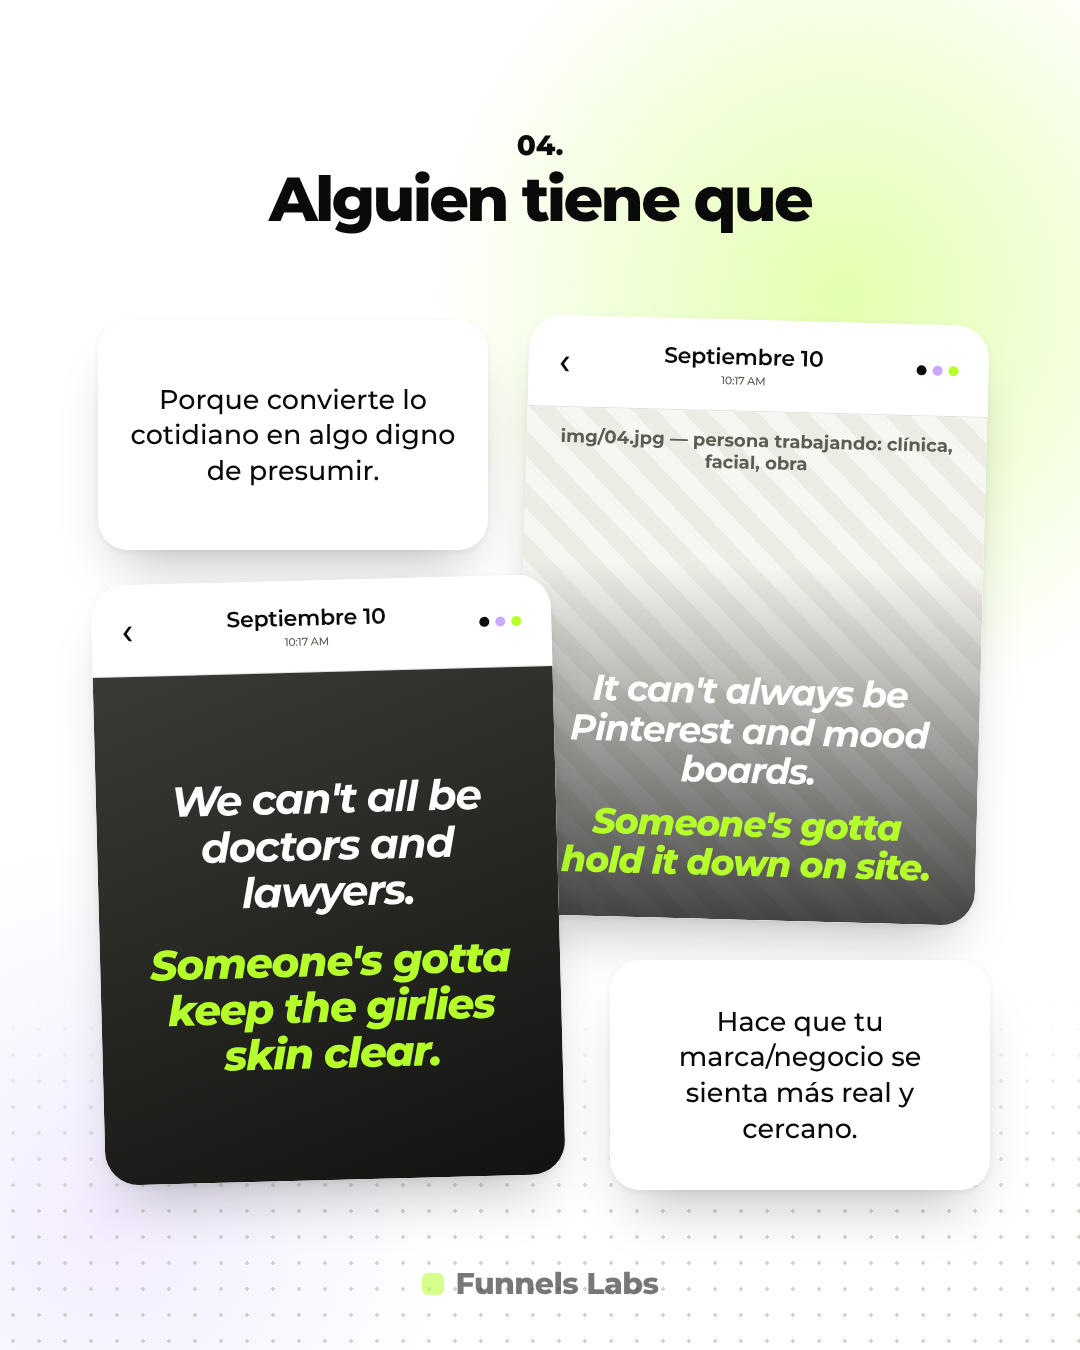
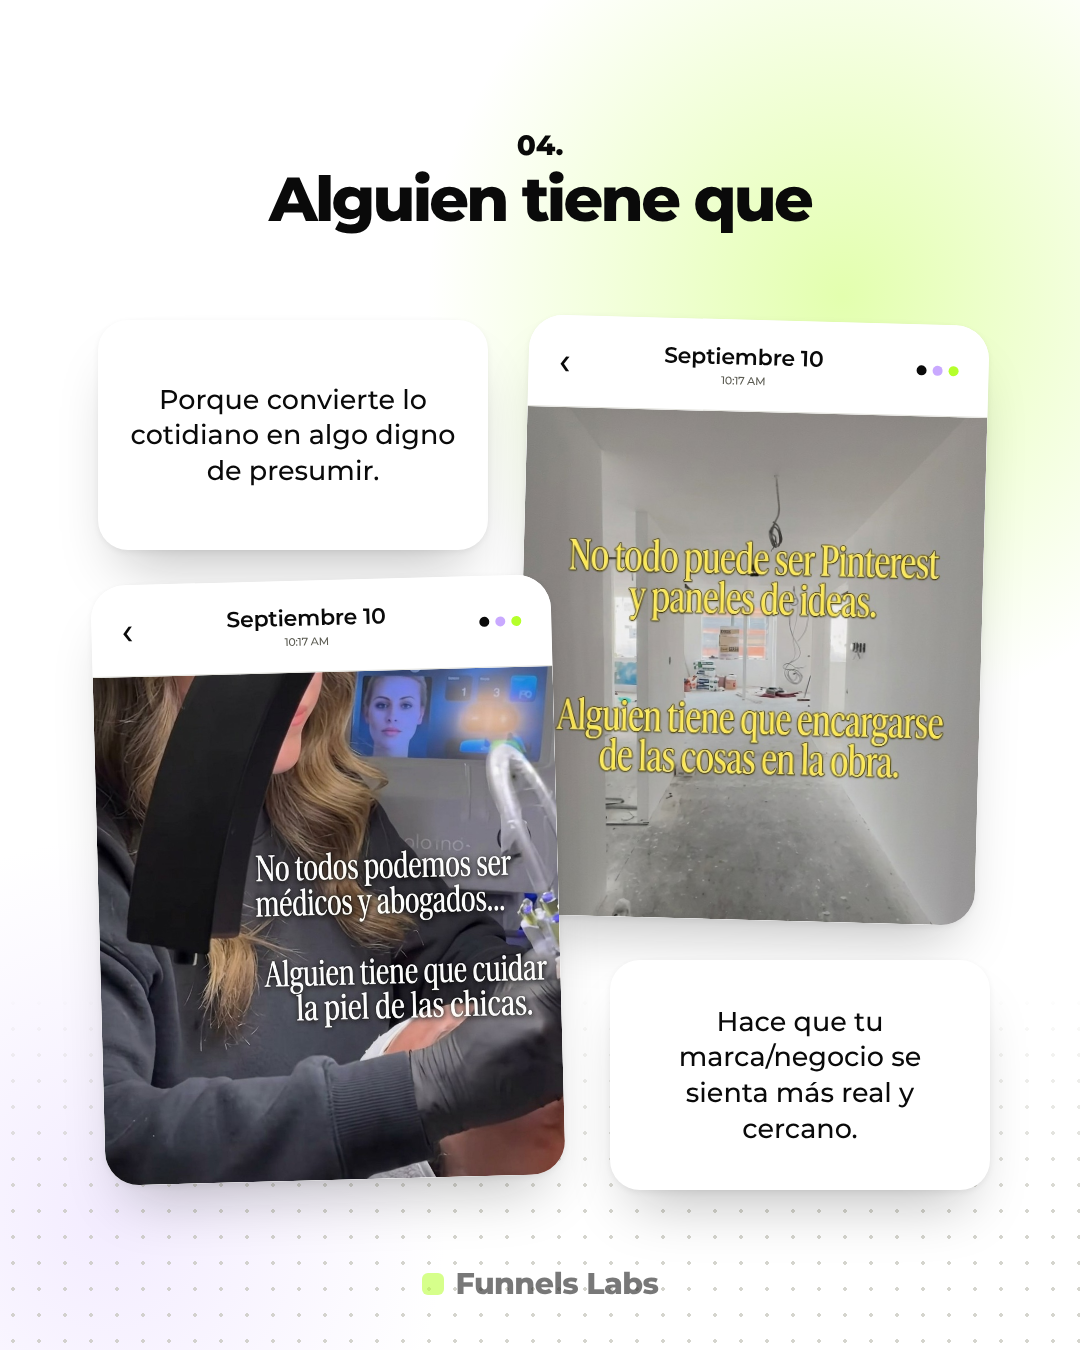
Carrusel trends: fotos reales en slides 01, 03 y 04
Claude-Session: https://claude.ai/code/session_018d4LXHkXweDJXxfN5x99dL

Changed region(s): [[0.0917, 0.28, 0.9167, 0.9022]]

diff --git a/carruseles/trends-instagram/carrusel.html b/carruseles/trends-instagram/carrusel.html
@@ -141,16 +141,11 @@
     <div class="screen s-lime" style="justify-content:center;gap:18px">
       <div class="big" style="font-size:62px;text-transform:uppercase">Sí, te perdono</div>
       <div class="marker" style="font-size:44px">pero todo tiene un precio</div>
-      <!-- <img src="foto.png"> para poner la foto del meme -->
     </div>
   </div>
   <div class="phone p2">
     <header><span class="back">‹</span><span class="date">Septiembre 7<small>10:17 AM</small></span><span class="dots"><b></b><b></b><b></b></span></header>
-    <div class="screen s-lilac photo">
-      <div class="band" style="text-align:center"><div class="big" style="font-size:54px;text-transform:uppercase">Si te perdono</div>
-      <div style="font-size:30px;font-weight:600;font-style:italic">pero tiene <b style="font-weight:800">un precio</b></div></div>
-      <div class="pic" data-foto="img/01.jpg — hámster o mascota señalando"><img src="img/01.jpg" onerror="this.closest('[data-foto]').classList.add('missing');this.remove()"></div>
-    </div>
+    <div class="screen photo" style="background:#3a9e5c"><img src="img/01.jpg" style="position:absolute;inset:0;width:100%;height:100%;object-fit:cover;object-position:top"></div>
   </div>
   <div class="card why"><h4>Funciona para:</h4><ul><li>Mostrar servicios</li><li>Destacar beneficios</li><li>Comunicar precios</li></ul></div>
   <div class="logo"><i></i>Funnels Labs</div>
@@ -163,9 +158,8 @@
   <div class="card note" style="font-size:25px">Este trend juega con fotos reales y sin editar para mostrar el lado más espontáneo y humano de una marca.</div>
   <div class="phone p1">
     <header><span class="back">‹</span><span class="date">Septiembre 8<small>10:17 AM</small></span><span class="dots"><b></b><b></b><b></b></span></header>
-    <div class="screen photo overlay" data-foto="img/02.jpg — escritorio u oficina vacía, foto casual">
-      <img src="img/02.jpg" onerror="this.closest('[data-foto]').classList.add('missing');this.remove()">
-      <div class="cap"><div class="marker" style="font-size:54px;color:var(--lime);transform:rotate(-3deg)">La chica de Marketing no vino a trabajar !!</div></div>
+    <div class="screen s-lime" style="justify-content:center">
+      <div class="marker" style="font-size:66px;transform:rotate(-3deg)">La chica de Marketing no vino a trabajar !!</div>
     </div>
   </div>
   <div class="phone p2">
@@ -184,16 +178,15 @@
   <div class="card note" style="font-size:25px">Un trend cute y juguetón para mostrar productos como ese antojito que “te da penita pedir”.</div>
   <div class="phone p1">
     <header><span class="back">‹</span><span class="date">Septiembre 9<small>10:17 AM</small></span><span class="dots"><b></b><b></b><b></b></span></header>
-    <div class="screen s-lilac photo">
-      <div class="band"><div class="big" style="font-size:56px">Me da penita</div>
-      <div class="marker" style="font-size:44px;text-align:right">pedirte…</div></div>
-      <div class="pic" data-foto="img/03.jpg — perrito con cara de ternura"><img src="img/03.jpg" onerror="this.closest('[data-foto]').classList.add('missing');this.remove()"></div>
+    <div class="screen photo s-lilac" style="padding:0">
+      <img src="img/03.jpg" style="position:absolute;inset:16px;width:calc(100% - 32px);height:calc(100% - 32px);object-fit:cover;object-position:top;border-radius:18px">
     </div>
   </div>
   <div class="phone p2">
     <header><span class="back">‹</span><span class="date">Septiembre 9<small>10:17 AM</small></span><span class="dots"><b></b><b></b><b></b></span></header>
-    <div class="screen s-paper" style="justify-content:center;text-align:center">
-      <div class="big" style="font-size:60px">Me da <span style="background:var(--lime);padding:0 8px;border-radius:8px">vergüenza</span> pedirte…</div>
+    <div class="screen s-paper" style="justify-content:center">
+      <div class="big" style="font-size:66px">Me da <span style="background:var(--lime);padding:0 8px;border-radius:8px">penita</span></div>
+      <div class="marker" style="font-size:52px;text-align:right;margin-top:10px">pedirte…</div>
     </div>
   </div>
   <div class="card why"><h4>Funciona porque:</h4><ul><li>Humaniza la marca</li><li>Conecta con situaciones cotidianas</li></ul></div>
@@ -207,18 +200,11 @@
   <div class="card note">Porque convierte lo cotidiano en algo digno de presumir.</div>
   <div class="phone p1">
     <header><span class="back">‹</span><span class="date">Septiembre 10<small>10:17 AM</small></span><span class="dots"><b></b><b></b><b></b></span></header>
-    <div class="screen photo overlay" data-foto="img/04.jpg — persona trabajando: clínica, facial, obra">
-      <img src="img/04.jpg" onerror="this.closest('[data-foto]').classList.add('missing');this.remove()">
-      <div class="cap"><div style="font-size:36px;font-weight:700;font-style:italic;line-height:1.1;letter-spacing:-0.03em">It can't always be Pinterest and mood boards.</div>
-      <div style="font-size:36px;font-weight:800;font-style:italic;line-height:1.1;letter-spacing:-0.03em;color:var(--lime);margin-top:14px">Someone's gotta hold it down on site.</div></div>
-    </div>
+    <div class="screen photo" style="background:#fff"><img src="img/04b.jpg" style="position:absolute;inset:0;width:100%;height:100%;object-fit:cover;object-position:center"></div>
   </div>
   <div class="phone p2">
     <header><span class="back">‹</span><span class="date">Septiembre 10<small>10:17 AM</small></span><span class="dots"><b></b><b></b><b></b></span></header>
-    <div class="screen s-dark" style="justify-content:center;text-align:center;gap:24px">
-      <div style="font-size:42px;font-weight:700;font-style:italic;line-height:1.1;letter-spacing:-0.03em">We can't all be doctors and lawyers.</div>
-      <div style="font-size:42px;font-weight:800;font-style:italic;line-height:1.1;letter-spacing:-0.03em;color:var(--lime)">Someone's gotta keep the girlies skin clear.</div>
-    </div>
+    <div class="screen photo" style="background:#fff"><img src="img/04a.jpg" style="position:absolute;inset:0;width:100%;height:100%;object-fit:cover;object-position:center 45%"></div>
   </div>
   <div class="card note why">Hace que tu marca/negocio se sienta más real y cercano.</div>
   <div class="logo"><i></i>Funnels Labs</div>
